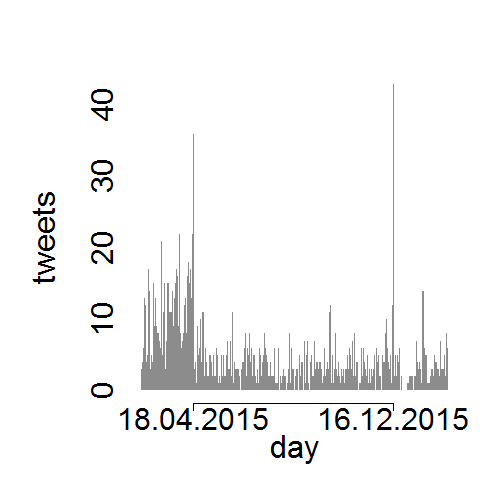
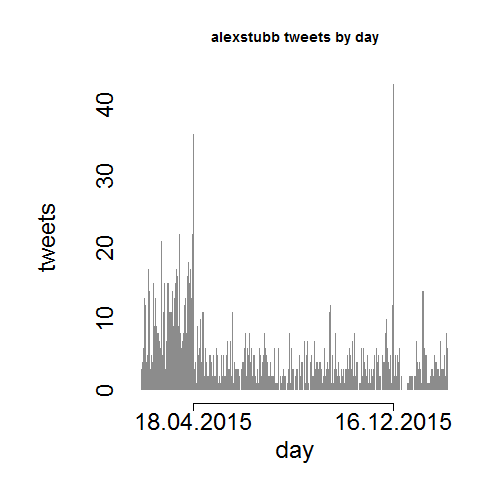
update README

diff --git a/README.md b/README.md
@@ -4,7 +4,8 @@
 
 # Wellcome
 
-<description of the project>
+description of the project here
+
 
 ## Explorative analysis
 
@@ -20,13 +21,13 @@ mindate     | maxdate     | tweets
 
 ```r
 par(mar=c(8,9,6,4))
-h <- hist(main="",
-     tw$created, breaks="month", freq=T, 
+h <- hist(tw$created, main = paste(tweeter, "tweets by month"),
+     breaks="month", freq=T, 
      xlab="",ylab="", las=2,
-     labels=T, cex.axis=2.2, cex.lab=2.4,
+     labels=T, cex.axis=1.5, cex.lab=2,
      ylim= c(0,400), format="%Y-%m",
      col="cadetblue3")
-mtext(side = 2, text = "tweets", line = 5, cex = 2.7)
+mtext(side = 2, text = "tweets", line = 5, cex = 1.5)
 ```
 
 ![plot of chunk monthly_tweets](figure/monthly_tweets-1.png)
@@ -36,15 +37,16 @@ mtext(side = 2, text = "tweets", line = 5, cex = 2.7)
 
 ```r
 par(mar=c(7,9,5,3))
-h <- hist(main="",tw$created, breaks="days", freq=T, 
+h <- hist(tw$created, main = paste(tweeter, "tweets by day"),
+          breaks="days", freq=T, 
           xlab="", ylab="",col="grey55", lty=0,
-          cex.axis=2.5 ,cex.lab=2.5, tck=0.05, xaxt="n")
+          cex.axis=2 ,cex.lab=2, tck=0.05, xaxt="n")
 peaks=2
 tickpos <- h$breaks[order(h$counts,decreasing=T)[1:peaks]]
 labels <- names(sort(table(format(tw$created,"%d.%m.%Y")),decreasing=T))[1:peaks]
-axis(1, at=tickpos, labels=labels,cex.axis=2.5)
-mtext(side = 2, text = "tweets", line = 5, cex = 2.7)
-mtext(side = 1, text = "day", line = 3, cex = 2.7)
+axis(1, at=tickpos, labels=labels,cex.axis=2)
+mtext(side = 2, text = "tweets", line = 5, cex = 2)
+mtext(side = 1, text = "day", line = 3, cex = 2)
 ```
 
 ![plot of chunk daily_tweets](figure/daily_tweets-1.png)
@@ -56,13 +58,14 @@ mtext(side = 1, text = "day", line = 3, cex = 2.7)
 hourly <- table(format(tw$created,"%H"))
 hourly_prc <- paste(round(100*hourly/sum(hourly),1),"%")
 par(mar=c(8,10,5,3))
-bp <- barplot(hourly, space=0.5, ylim=c(0,250),
-              ylab="",cex.lab=2.5, cex.names = 2.5,
-              cex.axis=2.5, las=2, col = "deepskyblue3",
+bp <- barplot(hourly, main = paste(tweeter, "tweets by hour"),
+              space=0.5, ylim=c(0,250),
+              ylab="",cex.lab=2, cex.names = 2,
+              cex.axis=2, las=2, col = "deepskyblue3",
               xlab="")
 text(bp+0.1, hourly, hourly_prc, pos=3, cex=1.3) 
-mtext(side = 2, text = "tweets", line = 5, cex = 2.7)
-mtext(side = 1, text = "time", line = 5, cex = 2.4)
+mtext(side = 2, text = "tweets", line = 5, cex = 2)
+mtext(side = 1, text = "time", line = 5, cex = 2)
 ```
 
 ![plot of chunk tweets_hour](figure/tweets_hour-1.png)
@@ -71,35 +74,36 @@ mtext(side = 1, text = "time", line = 5, cex = 2.4)
 
 
 ```r
-top10tweetdays <- sort(table(format(tw$created,"%Y-%m-%d")),decreasing=T)[1:10]
-top10tweetdays
+top5tweetdays <- sort(table(format(tw$created,"%Y-%m-%d")),decreasing=T)[1:5]
+top5tweetdays
 ```
 
 ```
 ## 
-## 2015-12-16 2015-04-18 2015-04-01 2015-04-16 2015-03-10 2015-04-12 
-##         43         36         22         22         21         18 
-## 2015-02-22 2015-03-28 2015-04-14 2015-03-29 
-##         17         17         17         16
+## 2015-12-16 2015-04-18 2015-04-01 2015-04-16 2015-03-10 
+##         43         36         22         22         21
 ```
 
+
+### Tweet times during the 4 most active days
+
+
 ```r
-top10days <- names(top10tweetdays)
+top5days <- names(top5tweetdays)
 
 topdaydata <- lapply(1:4,function(day) {
-  get_datedata(tw, top10days[day])
+  get_datedata(tw, top5days[day])
 })
-
 
 newpar <- par(mfrow=c(2,2))
 for(i in 1:4){
   time <- topdaydata[[i]]$created
   hist(time, breaks=100,freq=T,border=NULL,ylab="Tweets",
        tck=0,cex.axis=0.8,cex.lab=0.6, xlab="",
-       main=paste0(tweeter," ",i ,". most active tweet day"),
+       main=paste0(tweeter," ",i ),
        cex.main=0.7, ylim=c(0,8))
 }
 ```
 
-![plot of chunk active_days](figure/active_days-1.png)
+![plot of chunk top_days](figure/top_days-1.png)
 
